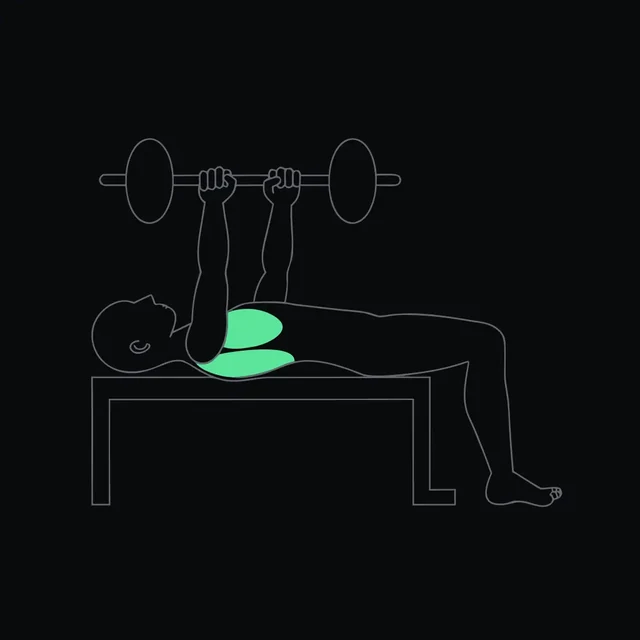
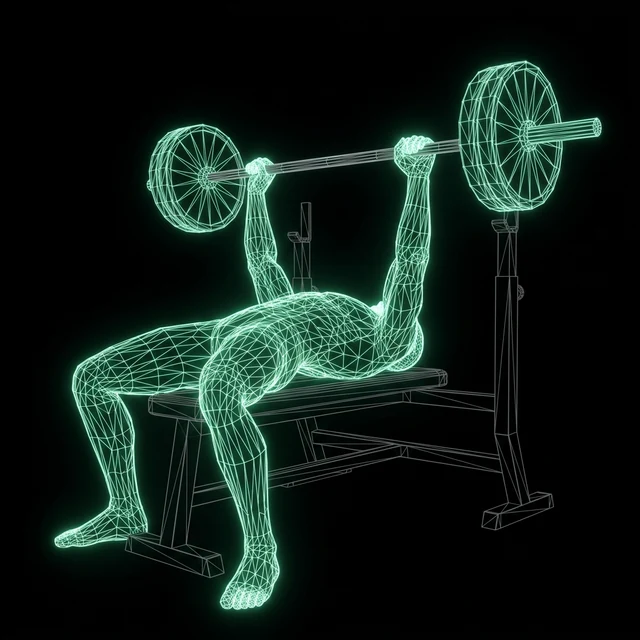
Redraw the exercises as glowing wireframes, and stop the lat pulldown lying
The lat pulldown was borrowing the pull-up's picture: a figure hanging from
a bar, no cable machine, no seat. Close enough to file under the same family
and not close enough to be true — someone who has never done one would have
walked to the wrong side of the gym. It has its own render now.

The style changed with it. These are low-poly wireframes glowing in the
accent on black: a mesh of light rather than a body. Three-dimensional
enough to show the shape of the movement, abstract enough that there is
nobody in it to compare yourself against.

Raster rather than vector, and that is the point. The glow is what makes the
style and a vector cannot glow — Recraft's wireframe came back structurally
right and visually dead next to it. The trade is losing literal hex control
of the palette, which is acceptable because the mesh reads as one accent
colour anyway.

Four of five in the batch were usable. The deadlift came back with the
barbell floating beside the hands rather than in them, so it keeps the old
blueprint until it is redone.

Claude-Session: https://claude.ai/code/session_012Xwd1cJ2f7h4DsPxqDBYsf

Changed region(s): [[0.0625, 0.0938, 0.9375, 0.9688]]

diff --git a/src/features/training/exerciseArt.ts b/src/features/training/exerciseArt.ts
@@ -3,18 +3,20 @@ import type { ImageSourcePropType } from 'react-native';
 /**
  * The render of each movement: what the exercise looks like.
  *
- * A flat blueprint diagram of the movement, drawn in the app's own palette:
- * near-black ground, thin grey outlines, the worked muscles filled in the
- * accent. Not a photo of a person — a photo invites you to compare bodies,
- * and a body is not the information. Not a rendered sculpture either: the
- * rest of the app is flat and 2D, and a marble figure with shadows sitting
- * inside it reads as borrowed from somewhere else.
+ * A low-poly wireframe of the movement, glowing in the accent on black — a
+ * body drawn as a mesh of light rather than a body. Not a photo of a person:
+ * a photo invites you to compare bodies, and a body is not the information.
+ * Not a rendered sculpture either — the rest of the app is flat, and a marble
+ * figure with shadows inside it reads as borrowed from somewhere else. The
+ * wireframe sits between the two: three-dimensional enough to show the shape
+ * of the movement, abstract enough that there is nobody in it to compare
+ * yourself against.
  *
- * Generated with Recraft in vector mode, which takes the palette as literal
- * hex — `#0A0B0D` ground and `#5BE49B` accent are passed as parameters rather
- * than described in words, so the art cannot drift away from the tokens. It
- * returns real SVG; the assets are rasterised to webp only because the app
- * has no SVG asset pipeline yet.
+ * Generated raster, not vector, and that is the whole point. The glow is what
+ * makes the style, and a vector cannot glow — Recraft's wireframe came out
+ * structurally right and visually dead beside it. The trade is losing literal
+ * hex control of the palette, which is worth it here because the mesh reads
+ * as one accent colour regardless.
  *
  * Two things the prompt must always carry. Describing a muscle's location in
  * prose gets that prose drawn into the picture as callout labels, so every
@@ -48,6 +50,7 @@ export const EXERCISE_ART: Record<string, ImageSourcePropType> = {
   face_pull: require('../../../assets/exercises/face_pull.webp'),
   hanging_leg_raise: require('../../../assets/exercises/hanging_leg_raise.webp'),
   hip_thrust: require('../../../assets/exercises/hip_thrust.webp'),
+  lat_pulldown: require('../../../assets/exercises/lat_pulldown.webp'),
   lateral_raise: require('../../../assets/exercises/lateral_raise.webp'),
   leg_extension: require('../../../assets/exercises/leg_extension.webp'),
   overhead_press: require('../../../assets/exercises/overhead_press.webp'),
@@ -77,7 +80,6 @@ const FALLBACK: Record<string, string> = {
   dumbbell_shoulder_press: 'overhead_press',
   shoulder_press_machine: 'overhead_press',
   assisted_pull_up: 'pull_up',
-  lat_pulldown: 'pull_up',
   barbell_curl: 'dumbbell_curl',
   cable_curl: 'dumbbell_curl',
   dumbbell_row: 'barbell_row',
